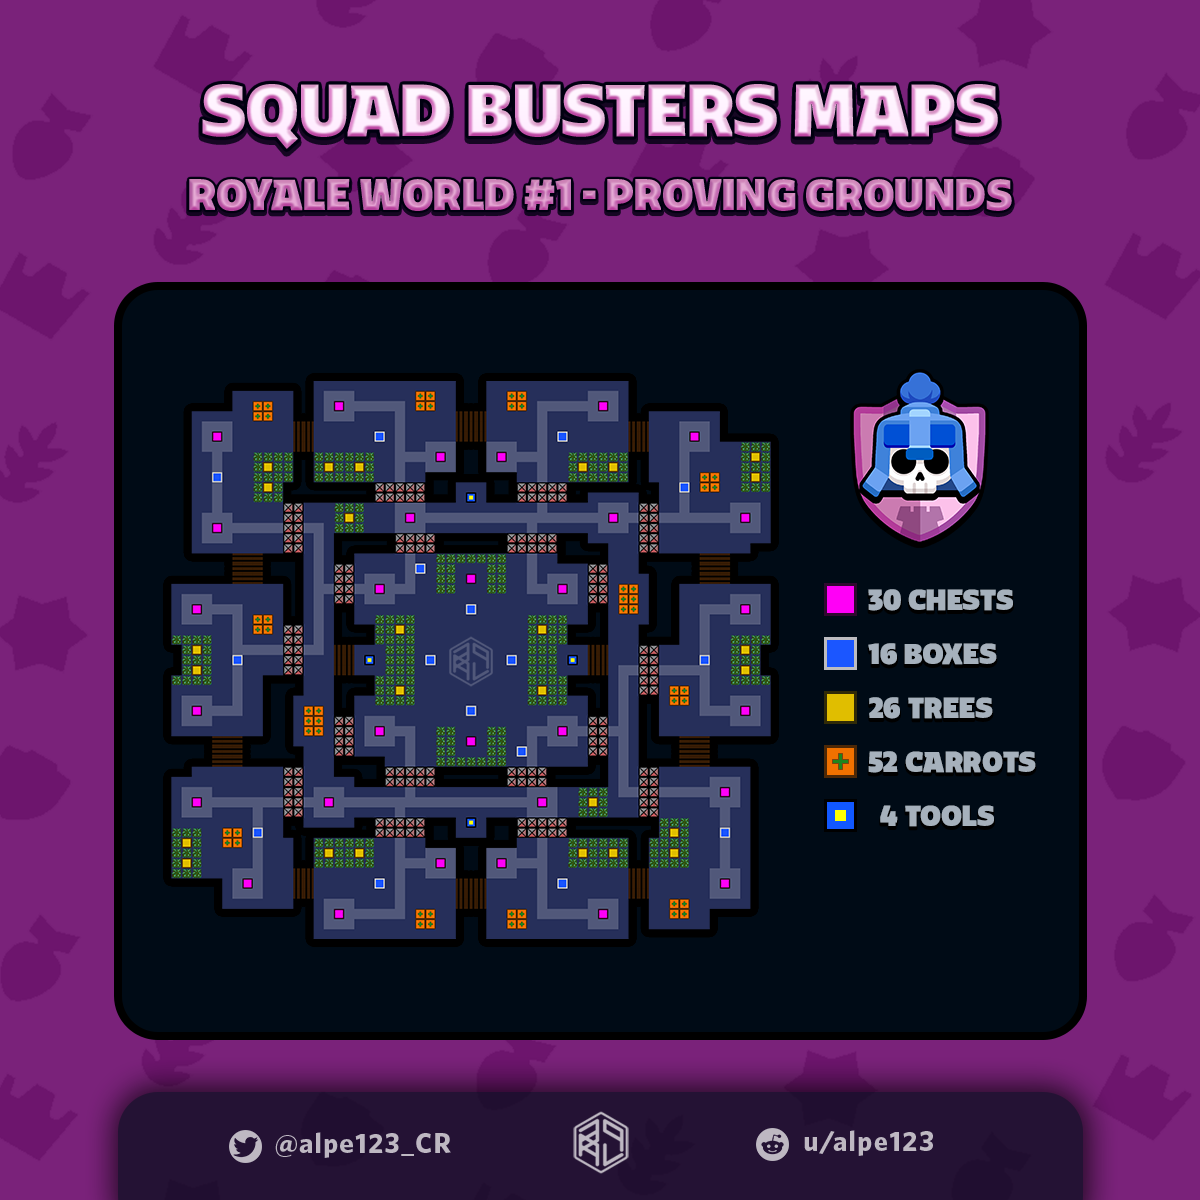
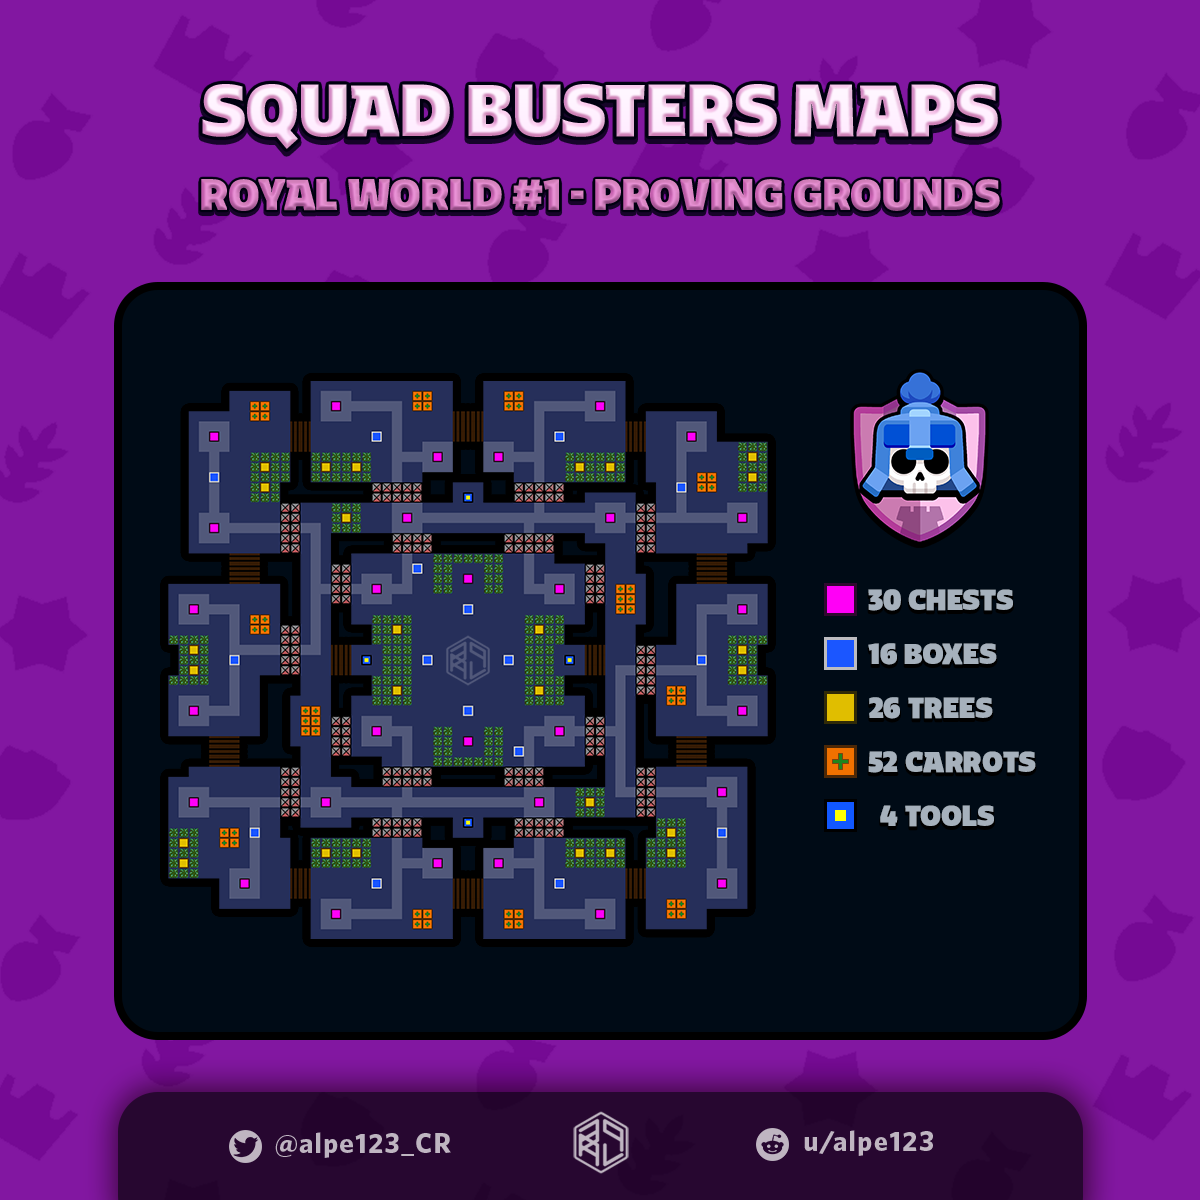
update content

diff --git a/docs/sb/maps.md b/docs/sb/maps.md
@@ -6,9 +6,10 @@ outline: understand your surroundings
 
 The soft launch is releasing 4 different worlds, and each of them has 3 different maps.
 
-On top of those, the Green World maps have variants to allow for more complex mechanics. Examples of these are carrots for Mavis and tool spawns for Bea and Tank.
+On top of those, the Green World maps have variants to allow for more complex mechanics. Examples of these are carrots for Mavis and tool spawns for Bea and Tank. This means that in total, there are 15 main maps to play in.
 
 
+## World Maps
 
 [<img src="/assets/sb_world_card_1_w1.png"
       alt="Green World"
@@ -19,7 +20,7 @@ On top of those, the Green World maps have variants to allow for more complex me
       style="width:300px;height:200px ;">](/sb/maps_w2)
 
 [<img src="/assets/sb_world_card_1_w3.png"
-      alt="Royale World"
+      alt="Royal World"
       style="width:300px;height:200px ;">](/sb/maps_w3)
 
 [<img src="/assets/sb_world_card_1_w4.png"
@@ -29,3 +30,41 @@ On top of those, the Green World maps have variants to allow for more complex me
 [<img src="/assets/sb_world_card_1_w1e.png"
       alt="Green World Endgame"
       style="width:300px;height:200px ;">](/sb/maps_w1e)
+
+## Tile Types
+
+Although there are many different scenaries, at their core, they can be categorised in:
+
+### Special tiles
+
+- Chests: can be bought to increase your squad
+
+- Trees: can be looted by Greg or some spells
+
+- Boxes: can be opened once, as part of the early game
+
+- Tools: either hives for Bea or tanks for Tank
+
+### Kinds of terrain
+
+- Water or mountains: terrain that can't be reached
+
+- Grass: smooth terrain
+
+- Low Grass: behaves the same as normal grass, but is used to label the main paths of the map, usually to guide players towards chests
+
+- Tall Grass: a kind of grass that slows you down and can hide rewards
+
+- Sand: a kind of terrain that slows you down
+
+- Carrots: can be looted by Mavis or some spells
+
+- Permanent Bridge: behaves like normal grass
+
+- Weak Bridge: breaks down after being used
+
+- Spikes: periodically pop out and can damage players
+
+### Other items
+
+Other features such as enemies, special loot, spells... aren't completely predefined.

diff --git a/docs/sb/index.md b/docs/sb/index.md
@@ -3,25 +3,25 @@
 layout: home
 
 hero:
-  name: "Alpe"
-  text: "Squad Up!"
-  tagline: "with unique stats for your battles."
+  name: Alpe
+  text: Squad Up!
+  tagline: with unique stats for your battles.
   image:
-    src: https://eu-north-1.console.aws.amazon.com/s3/object/alpe1?region=eu-north-1&bucketType=general&prefix=assets/Squad_Logo_Original.png
+    src: /Squad_Logo_Original.png
     alt: Alpe
 
 features:
   - icon:
-      src: https://eu-north-1.console.aws.amazon.com/s3/object/alpe1?region=eu-north-1&bucketType=general&prefix=assets/appicon_sb_2cs.png
+      src: /appicon_sb_2cs.png
     title: SB Maps
     details: Find about the chests, boxes and structure of all the maps
     link: /sb/maps
   - icon:
-      src: https://eu-north-1.console.aws.amazon.com/s3/object/alpe1?region=eu-north-1&bucketType=general&prefix=assets/appicon_sb_2csbw.png
+      src: /appicon_sb_2csbw.png
     title: SB Troops
     details: Compare all the different units to build the best squad
   - icon:
-      src: https://eu-north-1.console.aws.amazon.com/s3/object/alpe1?region=eu-north-1&bucketType=general&prefix=assets/appicon_sb_2csbw.png
+      src: /appicon_sb_2csbw.png
     title: SB Enemies
     details: Stats for all the enemies and bosses you'll find
 ---

diff --git a/docs/sb/maps_w1e.md b/docs/sb/maps_w1e.md
@@ -3,21 +3,21 @@ outline: understand your surroundings
 ---
 
 
-# Desert World
+# Green World (Endgame)
 
 [[toc]]
 
-This is second world, played from Journey Level 15 up to 35.
+These are maps of the first world, but with adjustments to include items that can't be found at the start of the Squad Journey.
 
 
-## Dusty Badlands
+## Buster Valley
 
-![Desert World Dusty Badlands](/assets/sb_maps_1_d_1.png)
+![Green World (Endgame) Buster Valley](/assets/sb_maps_1_ge_1.png)
 
-## Troublesome Gulch
+## Rumble Meadow
 
-![Desert World Troublesome Gulch](/assets/sb_maps_1_d_2.png)
+![Green World (Endgame) Rumble Meadow](/assets/sb_maps_1_ge_2.png)
 
-## The Sand Pit
+## Twisting Trails
 
-![Desert World Twisting Trails](/assets/sb_maps_1_d_3.png)
+![Green World (Endgame) Twisting Trails](/assets/sb_maps_1_ge_3.png)

diff --git a/docs/sb/maps_w4.md b/docs/sb/maps_w4.md
@@ -3,21 +3,21 @@ outline: understand your surroundings
 ---
 
 
-# Desert World
+# Beach World
 
 [[toc]]
 
-This is second world, played from Journey Level 15 up to 35.
+This is fourth and last world before Squad League, played from Journey Level 60 up to 90.
 
 
-## Dusty Badlands
+## Invasion Island
 
-![Desert World Dusty Badlands](/assets/sb_maps_1_d_1.png)
+![Beach World Invasion Island](/assets/sb_maps_1_b_1.png)
 
-## Troublesome Gulch
+## Waterway Blitz
 
-![Desert World Troublesome Gulch](/assets/sb_maps_1_d_2.png)
+![Beach World Waterway Blitz](/assets/sb_maps_1_b_2.png)
 
-## The Sand Pit
+## Scavenger's Shore
 
-![Desert World Twisting Trails](/assets/sb_maps_1_d_3.png)
+![Beach World Scavenger's Shore](/assets/sb_maps_1_b_3.png)

diff --git a/docs/sb/maps_w3.md b/docs/sb/maps_w3.md
@@ -3,21 +3,21 @@ outline: understand your surroundings
 ---
 
 
-# Desert World
+# Royal World
 
 [[toc]]
 
-This is second world, played from Journey Level 15 up to 35.
+This is the third world, played from Journey Level 35 up to 60.
 
 
-## Dusty Badlands
+## Proving Grounds
 
-![Desert World Dusty Badlands](/assets/sb_maps_1_d_1.png)
+![Royal World Proving Grounds](/assets/sb_maps_1_r_1.png)
 
-## Troublesome Gulch
+## Royal Rumbleyard
 
-![Desert World Troublesome Gulch](/assets/sb_maps_1_d_2.png)
+![Royal World Royal Rumbleyard](/assets/sb_maps_1_r_2.png)
 
 ## The Sand Pit
 
-![Desert World Twisting Trails](/assets/sb_maps_1_d_3.png)
+![Royal World Steel Gauntlet](/assets/sb_maps_1_r_3.png)

diff --git a/docs/sb/maps_w1.md b/docs/sb/maps_w1.md
@@ -7,7 +7,7 @@ outline: understand your surroundings
 
 [[toc]]
 
-This is first world, played from Journey Level 1 up to 15.
+This is the first world, played from Journey Level 1 up to 15.
 
 > [!NOTE]
 > The basic Green World maps don't include carrots for Mavis or tools for Bea and Tank. These tiles have been added in the [Green World Endgame maps](/sb/maps_w1e).

diff --git a/docs/cr/index.md b/docs/cr/index.md
@@ -2,11 +2,11 @@
 layout: home
 
 hero:
-  name: "Alpe"
-  text: "Evolve Now!"
-  tagline: "with unique stats for your battles."
+  name: Alpe
+  text: Evolve Now!
+  tagline: with unique stats for your battles.
   image:
-    src: "/assets/cr_logo.png"
+    src: /cr_logo.png
     alt: Alpe
 ---
 

diff --git a/docs/sb/maps_w2.md b/docs/sb/maps_w2.md
@@ -7,7 +7,7 @@ outline: understand your surroundings
 
 [[toc]]
 
-This is second world, played from Journey Level 15 up to 35.
+This is the second world, played from Journey Level 15 up to 35.
 
 
 ## Dusty Badlands
